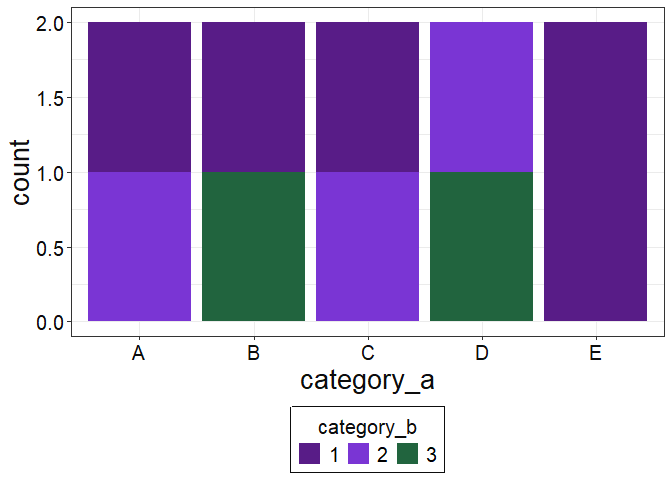
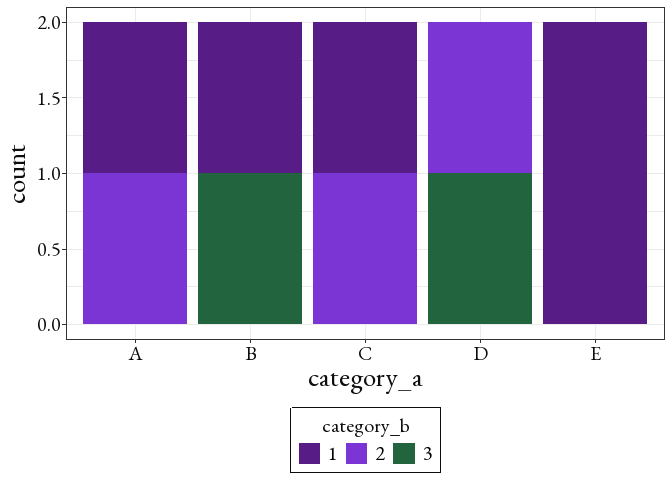
hopefull final commit

diff --git a/README.md b/README.md
@@ -90,22 +90,6 @@ ggplot(df, aes(x = category_a,
 #> This warning is displayed once per session.
 #> Call `lifecycle::last_lifecycle_warnings()` to see where this warning was
 #> generated.
-#> Warning in grid.Call(C_stringMetric, as.graphicsAnnot(x$label)): font family
-#> not found in Windows font database
-#> Warning in grid.Call(C_stringMetric, as.graphicsAnnot(x$label)): font family
-#> not found in Windows font database
-#> Warning in grid.Call(C_textBounds, as.graphicsAnnot(x$label), x$x, x$y, : font
-#> family not found in Windows font database
-#> Warning in grid.Call(C_textBounds, as.graphicsAnnot(x$label), x$x, x$y, : font
-#> family not found in Windows font database
-#> Warning in grid.Call.graphics(C_text, as.graphicsAnnot(x$label), x$x, x$y, :
-#> font family not found in Windows font database
-#> Warning in grid.Call.graphics(C_text, as.graphicsAnnot(x$label), x$x, x$y, :
-#> font family not found in Windows font database
-#> Warning in grid.Call.graphics(C_text, as.graphicsAnnot(x$label), x$x, x$y, :
-#> font family not found in Windows font database
-#> Warning in grid.Call.graphics(C_text, as.graphicsAnnot(x$label), x$x, x$y, :
-#> font family not found in Windows font database
 ```
 
 <img src="man/figures/README-unnamed-chunk-3-1.png" alt="" width="100%" />
@@ -223,4 +207,4 @@ If you would like to learn more about the package and its functions you
 check out `my-vignette.Rmd`. To learn more about a particular function
 call:
 
-`?prop_by_cat()` `?add_prop_to_df()` `?make_conf_matrix()`
+`?prop_by_cat` `?add_prop_to_df` `?make_conf_matrix` `?jea_theme`
